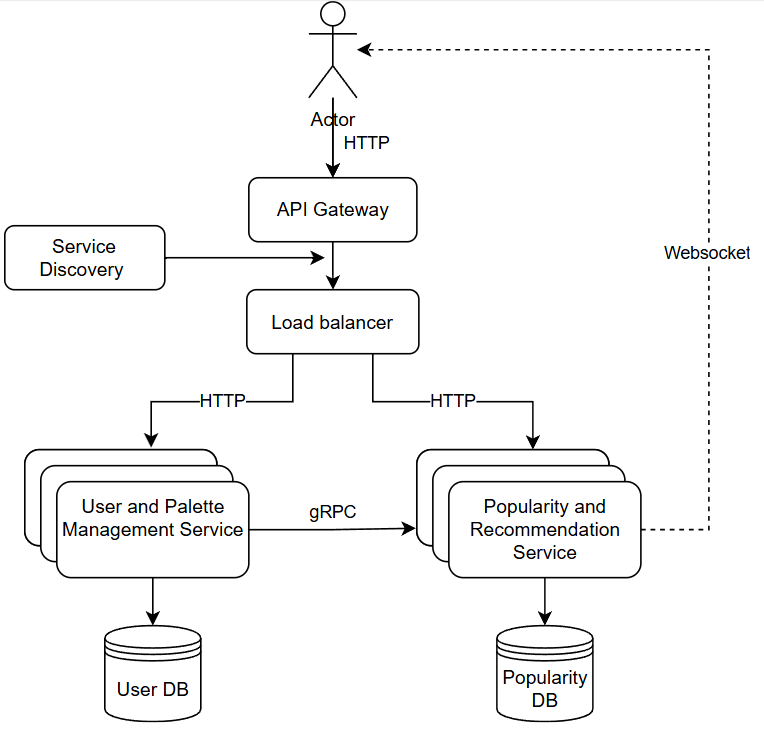
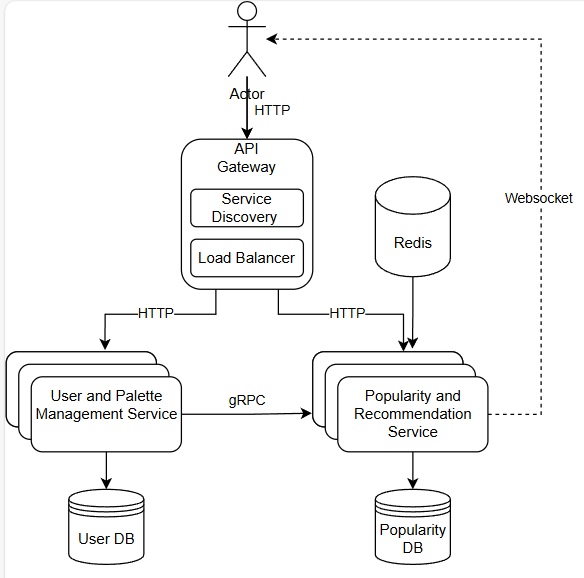
Update README.md

diff --git a/README.md b/README.md
@@ -31,7 +31,7 @@ Each service will have its own dedicated responsibilities and database, ensuring
 - Manages user palettes: creating, modifying, and deleting palettes.
 
 #### Database
-- **Users Table**: Stores user-related information (e.g., user_id, username, password).
+- **Users Table**: Stores user-related information (e.g., `user_id`, `username`, `password`).
 - **Palettes Table**: Stores information about color palettes, including user ownership, color codes, and timestamps.
 
 ### Service 2: Popularity and Recommendation Service
@@ -39,11 +39,13 @@ Each service will have its own dedicated responsibilities and database, ensuring
 #### Responsibilities
 - Handles palette likes and tracks popular palettes.
 - Fetches popular palettes based on likes or views.
+- Fetches popular palettes filtered by categories such as "Business", "Art", or other classifications.
 - Provides palette recommendations based on trending palettes or user preferences.
 - Implements **WebSocket** functionality for real-time popularity updates and a dynamic **lobby mechanic**.
 
 #### Database
-- **Likes Table**: Stores palette like information (e.g., user_id, palette_id, liked_at).
+- **Likes Table**: Stores palette like information (e.g., `user_id`, `palette_id`, `liked_at`).
+- **Palettes Table**: Contains a `category` field to group palettes by type (e.g., Business, Art, Or other categories).
 
 ---
 
@@ -74,45 +76,48 @@ Each service will have its own dedicated responsibilities and database, ensuring
 #### Users Table (User and Palette Management)
 | Field          | Type         | Notes                     |
 |----------------|--------------|---------------------------|
-| user_id        | INT, PK      | Unique user identifier     |
-| username       | VARCHAR      | User's display name        |
-| password_hash  | VARCHAR      | Hashed password            |
-| created_at     | TIMESTAMP    | User registration time     |
+| `user_id`      | INT, PK      | Unique user identifier     |
+| `username`     | VARCHAR      | User's display name        |
+| `password_hash`| VARCHAR      | Hashed password            |
+| `created_at`   | TIMESTAMP    | User registration time     |
 
 #### Palettes Table (User and Palette Management)
 | Field          | Type         | Notes                     |
 |----------------|--------------|---------------------------|
-| palette_id     | INT, PK      | Unique palette identifier  |
-| user_id        | INT, FK      | Foreign key to Users       |
-| color_codes    | JSON         | Array of hex color codes   |
-| created_at     | TIMESTAMP    | Palette creation time      |
-| updated_at     | TIMESTAMP    | Palette update time        |
+| `palette_id`   | INT, PK      | Unique palette identifier  |
+| `user_id`      | INT, FK      | Foreign key to Users       |
+| `color_codes`  | JSON         | Array of hex color codes   |
+| `category`     | VARCHAR      | Palette category (e.g., 'Business', 'Art') |
+| `created_at`   | TIMESTAMP    | Palette creation time      |
+| `updated_at`   | TIMESTAMP    | Palette update time        |
 
 #### Likes Table (Popularity and Recommendation)
 | Field          | Type         | Notes                     |
 |----------------|--------------|---------------------------|
-| like_id        | INT, PK      | Unique like identifier     |
-| palette_id     | INT, FK      | Foreign key to Palettes    |
-| user_id        | INT, FK      | Foreign key to Users       |
-| liked_at       | TIMESTAMP    | Time when liked            |
+| `like_id`      | INT, PK      | Unique like identifier     |
+| `palette_id`   | INT, FK      | Foreign key to Palettes    |
+| `user_id`      | INT, FK      | Foreign key to Users       |
+| `liked_at`     | TIMESTAMP    | Time when liked            |
 
 ### Endpoints
 
 #### User and Palette Management Service
 | Method | Endpoint               | Description                         | Input                        | Output                                          |
-|--------|------------------------|-------------------------------------|-----------------------------|------------------------------------------------|
-| POST   | `/users/register`      | Register a new user                 | `{username, password}`       | `201 Created` with user details                |
-| POST   | `/palettes`            | Create a new palette                | `{user_id, color_codes}`     | `201 Created` with palette details             |
+|--------|------------------------|-------------------------------------|------------------------------|------------------------------------------------|
+| POST   | `/users/register`      | Register a new user                 | `{username, password}`        | `201 Created` with user details                |
+| POST   | `/palettes`            | Create a new palette                | `{user_id, color_codes}`      | `201 Created` with palette details             |
 | GET    | `/palettes/:id`        | Get palette details by ID           | -                            | Palette details in JSON format                 |
-| PUT    | `/palettes/:id`        | Update a palette                    | `{color_codes}`              | `200 OK` on success; `404 Not Found` if not exists |
+| PUT    | `/palettes/:id`        | Update a palette                    | `{color_codes}`               | `200 OK` on success; `404 Not Found` if not exists |
 | DELETE | `/palettes/:id`        | Delete palette by ID                | -                            | `204 No Content` on success; `404 Not Found`   |
 
 #### Popularity and Recommendation Service
-| Method | Endpoint               | Description                         | Input                        | Output                                          |
-|--------|------------------------|-------------------------------------|-----------------------------|------------------------------------------------|
-| GET    | `/popular`             | Fetch the most popular palettes      | -                            | List of popular palettes in JSON format        |
-| POST   | `/like`                | Like a palette                      | `{palette_id, user_id}`      | `200 OK` on success; `404 Not Found` if not exists |
-| **WebSocket** | `/ws/popularity` | Real-time updates for palettes      | -                            | Live updates on new palettes and popularity    |
+| Method       | Endpoint                   | Description                           | Input                             | Output                                          |
+|--------------|----------------------------|---------------------------------------|-----------------------------------|------------------------------------------------|
+| GET          | `/popular`                 | Fetch the most popular palettes       | -                                 | List of popular palettes in JSON format        |
+| GET          | `/popular/:category`       | Fetch popular palettes by category    | `{category}`                      | List of popular palettes within a category     |
+| POST         | `/like`                    | Like a palette                        | `{palette_id, user_id}`           | `200 OK` on success; `404 Not Found` if not exists |
+| **WebSocket**| `/ws/popularity`           | Real-time updates for all palettes    | -                                 | Live updates on new palettes and popularity    |
+| **WebSocket**| `/ws/popularity/:category` | Real-time updates by category         | `{category}`                      | Live updates on popular palettes in a category |
 
 ### Data Format
 All requests and responses will use **JSON** format.
